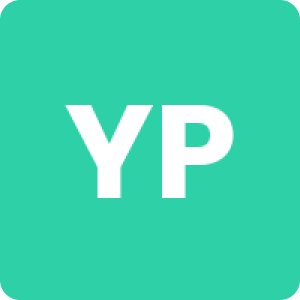
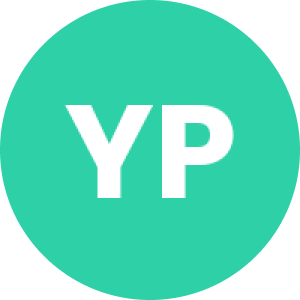
Pushed from Locofy Builder

diff --git a/src/components/ProfileCard.module.css b/src/components/ProfileCard.module.css
@@ -18,9 +18,9 @@
   object-fit: cover;
 }
 .profiledpIcon {
-  top: 281px;
-  left: 39px;
-  border-radius: var(--br-3xs);
+  top: 312px;
+  left: 58px;
+  border-radius: var(--br-81xl);
   width: 150px;
   height: 150px;
   cursor: pointer;
@@ -61,8 +61,8 @@
 }
 .profileinfocont {
   position: absolute;
-  top: 281px;
-  left: 206px;
+  top: 312px;
+  left: 220px;
   border-radius: var(--br-3xs);
   background-color: var(--color-lightgray);
   backdrop-filter: blur(5px);
@@ -121,8 +121,8 @@
 }
 .profileminicard {
   position: absolute;
-  top: 395px;
-  left: 206px;
+  top: 426px;
+  left: 220px;
   background-color: var(--color-gray-200);
   backdrop-filter: blur(5px);
   width: 296px;

diff --git a/src/global.css b/src/global.css
@@ -45,4 +45,5 @@ body {
   /* Border radiuses */
   --br-10xs: 3px;
   --br-3xs: 10px;
+  --br-81xl: 100px;
 }
